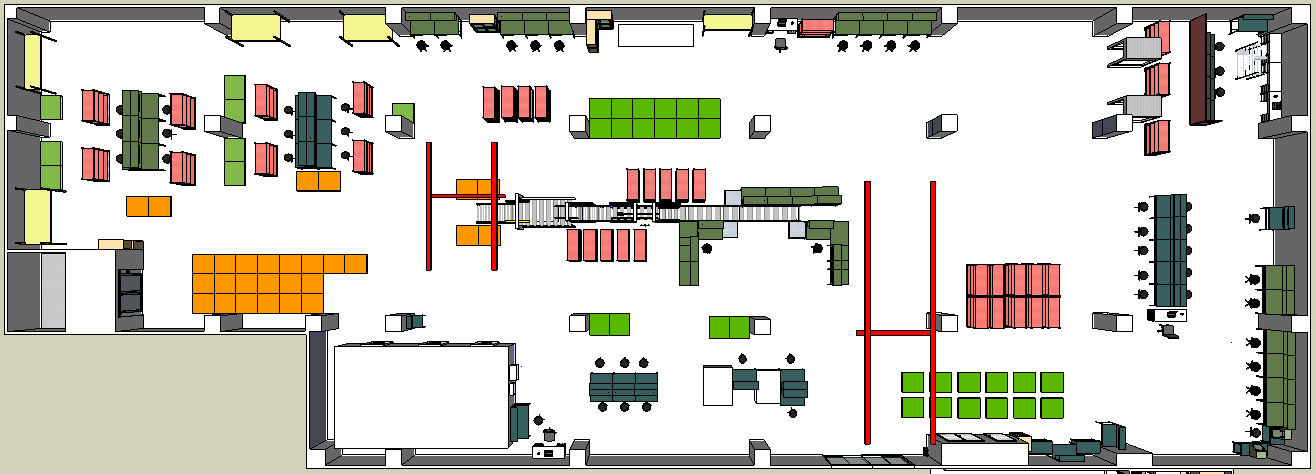
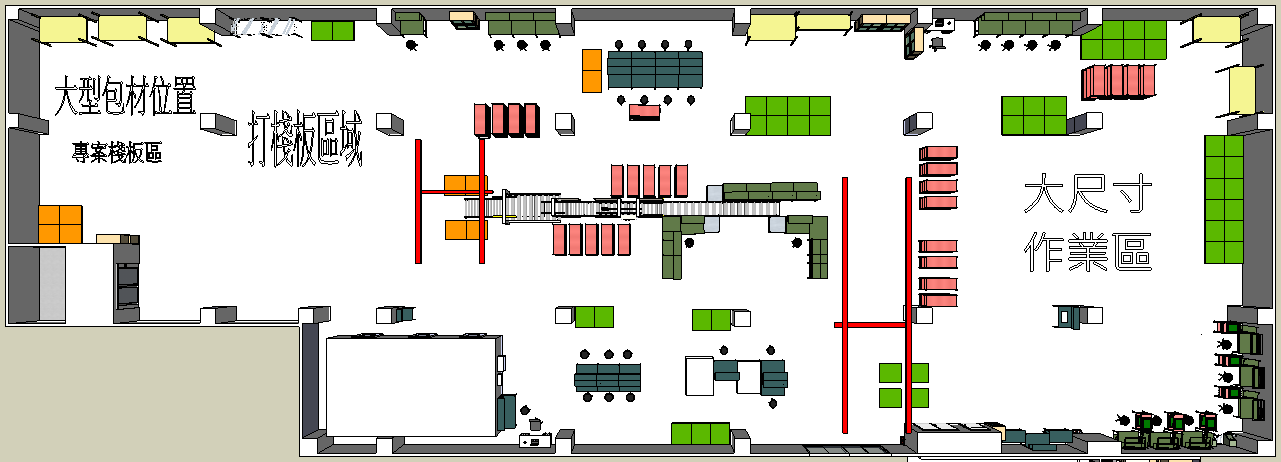
COMMIT_TEMP

diff --git a/src/main/webapp/js/totalMap-setting/5f.js b/src/main/webapp/js/totalMap-setting/5f.js
@@ -19,16 +19,14 @@ var titleGroup = [
     {lineName: "L2", x: 755, y: 305},
     {lineName: "L3", x: 715, y: 95},
     {lineName: "L4", x: 560, y: 305},
-    {lineName: "L5", x: 315, y: 195},
-    {lineName: "L6", x: 215, y: 195}
+    {lineName: "L5", x: 500, y: 85},
+    {lineName: "L6", x: 500, y: 5}
 ];
 
 var testGroup = [
-    {people: 5, x: 1015, y: 205, straight: true, reverse: true}, // group 11-18
-    {people: 5, x: 1080, y: 205, straight: true, reverse: true}, // group 6-10
-    {people: 2, x: 1125, y: 275, straight: true}, // group 1-5
-    {people: 4, x: 1125, y: 340, straight: true}, // group 1-5
-    {people: 4, x: 1015, y: 40, straight: true, reverse: true} // group 1-5
+    {people: 3, x: 1120, y: 335, straight: true}, // group 11-18
+    {people: 3, x: 1015, y: 420, reverse: true} // group 6-10
+  
 ];
 
 var babGroup = [
@@ -40,8 +38,8 @@ var babGroup = [
     {people: 3, x: 755, y: 210, lineName: "PKG_L2", straight: true},
     {people: 4, x: 660, y: 170, lineName: "PKG_L3"},
     {people: 3, x: 595, y: 210, lineName: "PKG_L4", straight: true},
-    {people: 3, x: 325, y: 95, lineName: "PKG_L5", straight: true, reverse: true},
-    {people: 3, x: 230, y: 95, lineName: "PKG_L6", straight: true, reverse: true}
+    {people: 3, x: 565, y: 100, lineName: "PKG_L5", reverse: true},
+    {people: 3, x: 565, y: 20, lineName: "PKG_L6", reverse: true}
 ];
 
 var fqcGroup = [
@@ -50,7 +48,7 @@ var fqcGroup = [
 //    {people: 1, x: 300, y: 300, lineName: "FQC_5"}
 ];
 
-var minTestTableNo = 15;
-var maxTestTableNo = 34;
+var minTestTableNo = 25;
+var maxTestTableNo = 30;
 
 var sitefloor = 5;

diff --git a/src/main/webapp/js/totalMap-setting/6f.js b/src/main/webapp/js/totalMap-setting/6f.js
@@ -3,8 +3,8 @@ var pYa = 0;
 
 var mapInfo = {
     titleName: "東湖廠6樓",
-    x: 665,
-    y: 430
+    x: 725,
+    y: 420
 };
 
 var titleGroup = [
@@ -21,11 +21,13 @@ var titleGroup = [
 
 //, straight: true, reverse: true
 var testGroup = [
-    {people: 3, x: 560, y: 450, reverse: true}, // group 37-39
-    {people: 3, x: 560, y: 360, reverse: true}, // group 40-42
-    {people: 3, x: 400, y: 450, reverse: true}, // group 35
-    {people: 3, x: 400, y: 370, reverse: true}, // group 36
-    {people: 2, x: 685, y: 360, reverse: true} // group 43-47
+    {people: 3, x: 615, y: 435, reverse: true}, // group 37-39
+    {people: 5, x: 380, y: 435, reverse: true}, // group 40-42
+    {people: 5, x: 315, y: 80, straight: true}, // group 35
+    {people: 5, x: 220, y: 80, straight: true}, // group 36
+    {people: 2, x: 685, y: 350, reverse: true}, // group 43-47
+    {people: 2, x: 585, y: 350, reverse: true}, // group 43-47
+    {people: 2, x: 510, y: 350, reverse: true} // group 43-47
 ];
 
 var babGroup = [
@@ -45,7 +47,7 @@ var fqcGroup = [
 ];
 
 var minTestTableNo = 1;
-var maxTestTableNo = 14;
+var maxTestTableNo = 24;
 
 var sitefloor = 6;
 

diff --git a/src/test/java/com/advantech/test/TestExcel.java b/src/test/java/com/advantech/test/TestExcel.java
@@ -136,18 +136,14 @@ public class TestExcel {
     @Transactional
     @Rollback(false)
     public void testReadExcel() throws FileNotFoundException, IOException, InvalidFormatException, Exception, Exception {
-        String syncFilePath = "C:\\Users\\wei.cheng\\Desktop\\複本 更新大表附件盒及線外工時用.xlsx";
+        String syncFilePath = "C:\\Users\\MFG.ESOP\\Desktop\\藍燈前置工時修改.xls";
         try (InputStream is = new FileInputStream(new File(syncFilePath))) {
 
             Session session = sessionFactory.getCurrentSession();
 
             Workbook workbook = WorkbookFactory.create(is);
 
-            PreAssyModuleType packingModuleType = session.get(PreAssyModuleType.class, 121);
-            
-            List<PreAssyModuleStandardTime> standardTimes = session.createCriteria(PreAssyModuleStandardTime.class)
-                    .add(Restrictions.eq("preAssyModuleType", packingModuleType))
-                    .list();
+            List<PreAssyModuleType> moduleTypes = session.createCriteria(PreAssyModuleType.class).list();
 
             Sheet sheet = workbook.getSheetAt(0);
             for (int i = 1, maxNumberfRows = sheet.getPhysicalNumberOfRows(); i < maxNumberfRows; i++) {
@@ -156,28 +152,36 @@ public class TestExcel {
 
                     //Because cell_A will auto convert to number if modelName only contains numbers.
                     //Search will cause exception when not add convert lines
-                    Cell modelName_cell = CellUtil.getCell(row, CellReference.convertColStringToIndex("B"));
+                    Cell modelName_cell = CellUtil.getCell(row, CellReference.convertColStringToIndex("A"));
                     modelName_cell.setCellType(CellType.STRING);
 
-                    String modelName = ((String) getCellValue(row, "B")).trim();
-                    BigDecimal standardTime = new BigDecimal((double) getCellValue(row, "BQ"));
+                    String modelName = ((String) getCellValue(row, "A")).trim();
+                    String moduleTypeName = ((String) getCellValue(row, "B")).trim();
+                    BigDecimal standardTime = new BigDecimal((double) getCellValue(row, "C"));
 
-                    PreAssyModuleStandardTime fitData = standardTimes.stream()
-                            .filter(p -> p.getModelName().equals(modelName))
-                            .findFirst().orElse(null);
+                    PreAssyModuleType moduleType = moduleTypes.stream()
+                            .filter(mt -> mt.getName().equals(moduleTypeName))
+                            .findFirst()
+                            .orElse(null);
 
-                    if (fitData == null) {
-//                        throw new Exception("Can't find fit data on model name " + modelName);
-                        PreAssyModuleStandardTime pt = new PreAssyModuleStandardTime();
-                        pt.setModelName(modelName);
-                        pt.setPreAssyModuleType(packingModuleType);
-                        pt.setStandardTime(standardTime);
-                        session.save(pt);
+                    PreAssyModuleStandardTime pms = (PreAssyModuleStandardTime) session.createCriteria(PreAssyModuleStandardTime.class)
+                            .add(Restrictions.eq("preAssyModuleType", moduleType))
+                            .add(Restrictions.eq("modelName", modelName))
+                            .uniqueResult();
+
+                    if (pms == null) {
+                        PreAssyModuleStandardTime pojo = new PreAssyModuleStandardTime();
+                        pojo.setModelName(modelName);
+                        pojo.setPreAssyModuleType(moduleType);
+                        pojo.setStandardTime(standardTime);
+                        session.save(pojo);
+                        System.out.printf("Saving modelName: %s %s\r\n", modelName, moduleTypeName);
+//                        throw new Exception("Can't find fit data on model name " + modelName + " " + moduleTypeName);
                     } else {
-                        fitData.setModelName(modelName);
                         standardTime.setScale(0, RoundingMode.FLOOR);
-                        fitData.setStandardTime(standardTime);
-                        session.update(fitData);
+                        pms.setStandardTime(standardTime);
+                        session.update(pms);
+                        System.out.printf("Update modelName: %s %s\r\n", modelName, moduleTypeName);
                     }
 
                 }

diff --git a/src/main/java/com/advantech/quartzJob/CountermeasureAlarm.java b/src/main/java/com/advantech/quartzJob/CountermeasureAlarm.java
@@ -5,9 +5,9 @@
  */
 package com.advantech.quartzJob;
 
-import com.advantech.helper.ApplicationContextHelper;
 import com.advantech.helper.DatetimeGenerator;
 import com.advantech.helper.MailManager;
+import com.advantech.helper.PropertiesReader;
 import com.advantech.model.db1.Bab;
 import com.advantech.model.db1.BabAlarmHistory;
 import com.advantech.model.db1.Floor;
@@ -23,39 +23,44 @@ import java.util.HashMap;
 import java.util.List;
 import java.util.Map;
 import java.util.Set;
-import org.quartz.JobExecutionContext;
-import org.quartz.JobExecutionException;
+import org.joda.time.DateTime;
 import org.slf4j.Logger;
 import org.slf4j.LoggerFactory;
-import org.springframework.scheduling.quartz.QuartzJobBean;
+import org.springframework.beans.factory.annotation.Autowired;
+import org.springframework.stereotype.Component;
+import org.springframework.transaction.annotation.Transactional;
 
 /**
  *
  * @author Wei.Cheng
  */
-public class CountermeasureAlarm extends QuartzJobBean {
+@Component
+@Transactional
+public class CountermeasureAlarm {
 
     private static final Logger log = LoggerFactory.getLogger(CountermeasureAlarm.class);
     private final DecimalFormat formatter = new DecimalFormat("#.##%");
     private final DatetimeGenerator dg = new DatetimeGenerator("yyyy-MM-dd HH:mm");
 
-    private final BabService babService;
-    private final UserService userService;
-    private final FloorService floorService;
-    private final MailManager mailManager;
+    @Autowired
+    private BabService babService;
+
+    @Autowired
+    private UserService userService;
+
+    @Autowired
+    private FloorService floorService;
+
+    @Autowired
+    private MailManager mailManager;
 
     private final String notificationName = "abnormal_unfill_alarm";
     private final String subject = "[藍燈系統]未填寫異常回覆工單列表 ";
 
-    public CountermeasureAlarm() {
-        babService = (BabService) ApplicationContextHelper.getBean("babService");
-        userService = (UserService) ApplicationContextHelper.getBean("userService");
-        floorService = (FloorService) ApplicationContextHelper.getBean("floorService");
-        mailManager = (MailManager) ApplicationContextHelper.getBean("mailManager");
-    }
+    @Autowired
+    private PropertiesReader p;
 
-    @Override
-    public void executeInternal(JobExecutionContext jec) throws JobExecutionException {
+    public void execute() throws Exception {
         try {
             //Link the mailloop to send daily mail
             sendMail();
@@ -77,17 +82,23 @@ public class CountermeasureAlarm extends QuartzJobBean {
                 log.info("CC users " + Arrays.toString(ccMailUsers));
 
                 // when user sitefloor is not setting, turn user's mail to mail cc loop
-                String mailBody = this.generateMailBody(f.getId());
-                if (!"".equals(mailBody)) {
-                    //有資料再寄信
-                    mailManager.sendMail(mailLoop, ccMailLoop, subject + f.getName() + "F", mailBody);
-                }
+//                String mailBody = this.generateMailBody(f.getId());
+//                if (!"".equals(mailBody)) {
+//                    //有資料再寄信
+//                    mailManager.sendMail(mailLoop, ccMailLoop, subject + f.getName() + "F", mailBody);
+//                }
             }
         }
     }
 
     public String generateMailBody(int floor_id) {
-        List<Bab> l = babService.findUnReplyed(floor_id);
+        DateTime today = new DateTime();
+
+        List<Bab> l = babService.findUnReplyed(
+                floor_id,
+                today.minusDays(p.getBabCountermeasureAlertDay()).withHourOfDay(0),
+                today.withHourOfDay(23)
+        );
         if (l.isEmpty()) {
             return "";
         } else {

diff --git a/src/test/java/com/advantech/test/TestDAO.java b/src/test/java/com/advantech/test/TestDAO.java
@@ -46,6 +46,7 @@ import org.joda.time.Minutes;
 import org.joda.time.format.DateTimeFormat;
 import org.joda.time.format.DateTimeFormatter;
 import static org.junit.Assert.*;
+import org.junit.Test;
 import org.junit.runner.RunWith;
 import org.springframework.beans.factory.annotation.Autowired;
 import org.springframework.test.annotation.Rollback;
@@ -102,10 +103,10 @@ public class TestDAO {
     @Rollback(true)
     public void testBabDAO() throws JsonProcessingException {
 
-        for (int i = 1; i <= 4; i++) {
-            List l = babDAO.findUnReplyed(i);
-            assertTrue(l.isEmpty());
-        }
+//        for (int i = 1; i <= 4; i++) {
+//            List l = babDAO.findUnReplyed(i);
+//            assertTrue(l.isEmpty());
+//        }
 
     }
 
@@ -331,6 +332,14 @@ public class TestDAO {
 //            System.out.printf("Start: %s --- End: %s \r\n", fmt.print(i.getStart()), fmt.print(i.getEnd()));
 //        });
     }
-   
+
+    @Test
+    @Transactional
+    @Rollback(true)
+    public void testFindBabUnreply() {
+        List<Bab> l = this.babDAO.findUnReplyed(1, new DateTime().minusDays(1), new DateTime());
+        assertTrue(!l.isEmpty());
+        HibernateObjectPrinter.print(l);
+    }
 
 }

diff --git a/src/test/java/com/advantech/test/TestQuartzJobs.java b/src/test/java/com/advantech/test/TestQuartzJobs.java
@@ -22,7 +22,6 @@ import com.advantech.quartzJob.ArrangePrepareScheduleImpl_Assy;
 import com.advantech.quartzJob.ArrangePrepareScheduleImpl_Packing;
 import com.advantech.quartzJob.SyncPrepareScheduleForPacking;
 import com.advantech.quartzJob.SyncWorktimeFromRemote;
-import static com.google.common.collect.Lists.newArrayList;
 import org.joda.time.DateTime;
 import org.junit.Test;
 import org.junit.runner.RunWith;
@@ -74,9 +73,9 @@ public class TestQuartzJobs {
     }
 
 //    @Test
-    public void testCountermeasureAlarm() throws JobExecutionException {
+    public void testCountermeasureAlarm() throws Exception {
         CountermeasureAlarm c = new CountermeasureAlarm();
-        c.executeInternal(null);
+        c.execute();
     }
 
 //    @Test

diff --git a/src/main/java/com/advantech/dao/db1/BabDAO.java b/src/main/java/com/advantech/dao/db1/BabDAO.java
@@ -131,13 +131,13 @@ public class BabDAO extends AbstractDao<Integer, Bab> implements BasicDAO_1<Bab>
         return c.list();
     }
 
-    public List<Bab> findUnReplyed(int floor_id) {
+    public List<Bab> findUnReplyed(int floor_id, DateTime sD, DateTime eD) {
         Criteria c = super.createEntityCriteria();
         c.createAlias("line", "l");
         c.createAlias("l.lineType", "lt");
         c.add(Restrictions.eq("replyStatus", ReplyStatus.UNREPLIED));
         c.add(Restrictions.eq("l.floor.id", floor_id));
-        c.add(Restrictions.lt("beginTime", new DateTime().withHourOfDay(0).toDate()));
+        c.add(Restrictions.between("beginTime", sD.toDate(), eD.toDate()));
         return c.list();
     }
 

diff --git a/src/main/java/com/advantech/helper/PropertiesReader.java b/src/main/java/com/advantech/helper/PropertiesReader.java
@@ -76,6 +76,9 @@ public class PropertiesReader {
     private BigDecimal cellProductivityStandardMin = new BigDecimal(0.8);
     private BigDecimal cellProductivityStandardMax = new BigDecimal(1.2);
 
+    @Value("${bab.countermeasure.alert.day: 1}")
+    private int babCountermeasureAlertDay;
+
     @Autowired
     private LineTypeConfigService lineTypeConfigService;
 
@@ -240,6 +243,10 @@ public class PropertiesReader {
 
     public BabDataCollectMode getBabDataCollectMode() {
         return babDataCollectMode;
+    }
+
+    public int getBabCountermeasureAlertDay() {
+        return babCountermeasureAlertDay;
     }
 
 }

diff --git a/src/main/java/com/advantech/service/db1/BabService.java b/src/main/java/com/advantech/service/db1/BabService.java
@@ -145,8 +145,8 @@ public class BabService {
         return babDAO.findAllModelName();
     }
 
-    public List<Bab> findUnReplyed(int floor_id) {
-        List<Bab> l = babDAO.findUnReplyed(floor_id);
+    public List<Bab> findUnReplyed(int floor_id, DateTime sD, DateTime eD) {
+        List<Bab> l = babDAO.findUnReplyed(floor_id, sD, eD);
         l.forEach(b -> {
             Hibernate.initialize(b.getBabAlarmHistorys());
             Hibernate.initialize(b.getLine().getUsers());
